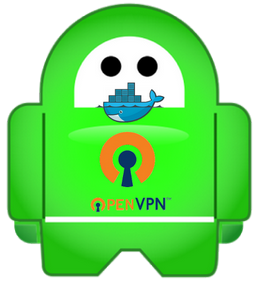
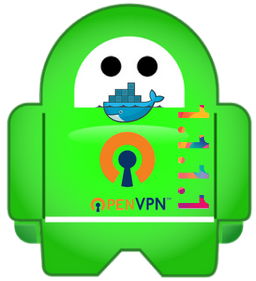
Updated readme and pictures

Changed region(s): [[0.6875, 0.3701, 0.8125, 0.7687]]

diff --git a/README.md b/README.md
@@ -1,4 +1,4 @@
-# Private Internet Access Docker (OpenVPN, Alpine)
+# Private Internet Access Client (OpenVPN, Alpine and DNS over TLS with Unbound)
 
 Docker VPN client to private internet access servers using [OpenVPN](https://openvpn.net/) and [Cloudflare DNS 1.1.1.1 over TLS](https://developers.cloudflare.com/1.1.1.1/dns-over-tls)
 
